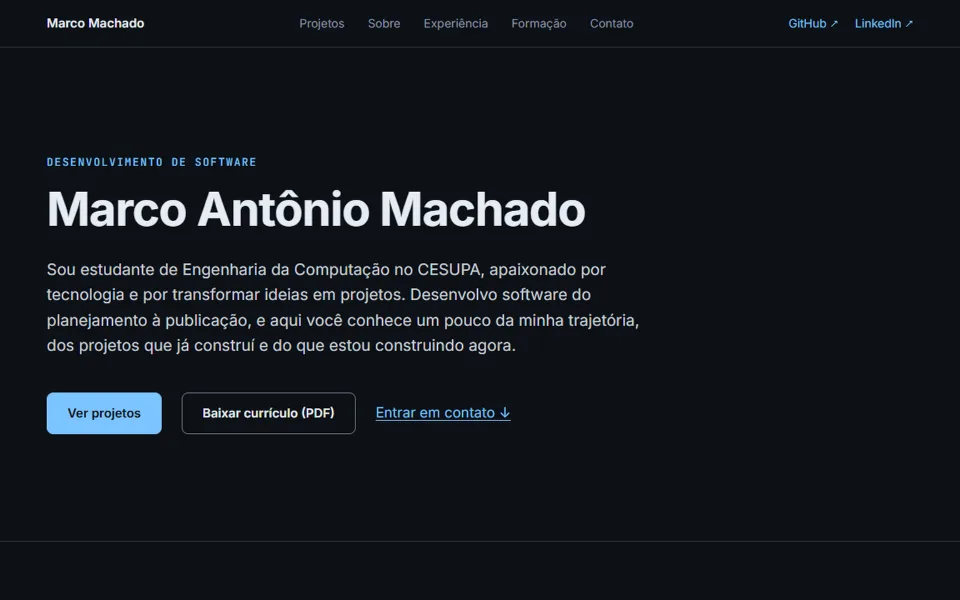
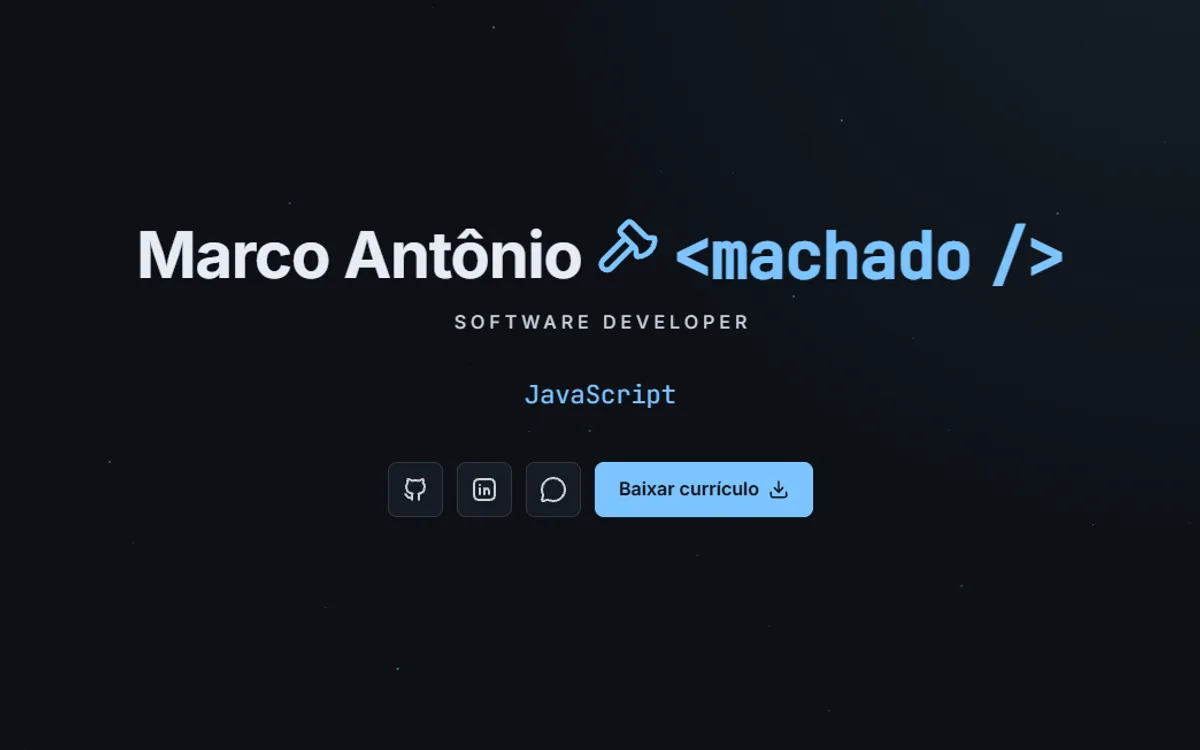
Atualiza as imagens dos cartões e padroniza A Teko Lixeira

diff --git a/projetos/teko-lixeira.html b/projetos/teko-lixeira.html
@@ -53,7 +53,7 @@
 
             <!-- IMAGEM -->
             <img class="projeto-imagem pagina-imagem" src="../img/projetos/teko/teko-card.webp"
-                alt="Dashboard do Teko Lixeira mostrando o peso de lixo coletado no mês e o status da lixeira" width="960"
+                alt="Dashboard da Teko Lixeira mostrando o peso de lixo coletado no mês e o status da lixeira" width="960"
                 height="600">
 
             <!-- O AMAZON HACKING -->
@@ -74,7 +74,7 @@
             <section class="pagina-bloco">
                 <h2>Contexto</h2>
                 <div class="pagina-bloco-texto">
-                    <p>O Teko Lixeira nasceu na edição de 2025 do Amazon Hacking, que teve como tema a Amazônia a caminho da
+                    <p>A Teko Lixeira nasceu na edição de 2025 do Amazon Hacking, que teve como tema a Amazônia a caminho da
                         COP 30 e desafios urbanos de Belém, como a gestão de resíduos. A edição contou com o apoio de
                         empresas parceiras. A ideia foi criada em conjunto pela equipe, formada por alunos de Ciência da
                         Computação e de Engenharia da Computação. O protótipo foi exposto em um estande na COP 30, em Belém,
@@ -101,7 +101,7 @@
             <section class="pagina-bloco">
                 <h2>Solução</h2>
                 <div class="pagina-bloco-texto">
-                    <p>O Teko Lixeira é uma lixeira inteligente que faz a pesagem do lixo, informa quando está totalmente
+                    <p>A Teko Lixeira é uma lixeira inteligente que faz a pesagem do lixo, informa quando está totalmente
                         cheia e envia os dados por Wi-Fi para a nuvem. Um painel web mostra tudo em tempo real: o peso ao
                         longo do dia, o total do mês e o aviso de lixeira cheia. Com essas informações, a equipe de coleta
                         sabe qual lixeira precisa ser esvaziada hoje e qual ainda pode esperar. O caminhão pode ir direto aos
@@ -128,7 +128,7 @@
                 <div class="pagina-galeria pagina-galeria-cartoes">
                     <figure>
                         <img src="../img/projetos/teko/teko-diagrama-sistema.png"
-                            alt="Diagrama do Teko Lixeira: sensor de nível na tampa, sensor de abertura e movimento na lateral e sensor de carga na base, ligados ao ESP32, que envia os dados por Wi-Fi para a nuvem e para o sistema de monitoramento"
+                            alt="Diagrama da Teko Lixeira: sensor de nível na tampa, sensor de abertura e movimento na lateral e sensor de carga na base, ligados ao ESP32, que envia os dados por Wi-Fi para a nuvem e para o sistema de monitoramento"
                             width="960" height="600" loading="lazy">
                         <figcaption><strong>Como o sistema funciona</strong> Mostra o caminho do dado: os sensores na lixeira, o
                             ESP32, o Wi-Fi, a nuvem e o sistema de monitoramento.</figcaption>

diff --git a/index.html b/index.html
@@ -55,7 +55,7 @@
 
                 <p class="inicio-cargo" lang="en">Software Developer</p>
 
-                <!-- Java entra aqui em 15/12/2026, junto com o array do script.js -->
+                
                 <p class="inicio-tecnologias">
                     <span class="inicio-palavra-caixa"><span class="inicio-palavra" aria-hidden="true">HTML · CSS · JavaScript · Git · GitHub</span></span>
                     <span class="visualmente-oculto">Tecnologias: HTML, CSS, JavaScript, Git e GitHub</span>
@@ -138,7 +138,7 @@
                         <div class="projeto-midia">
                             <a class="projeto-imagem-link" href="projetos/teko-lixeira.html" tabindex="-1" aria-hidden="true"><img
                                 class="projeto-imagem" src="img/projetos/teko/teko-card.webp"
-                                alt="Dashboard do Teko Lixeira mostrando o peso de lixo coletado no mês e o status da lixeira"
+                                alt="Dashboard da Teko Lixeira mostrando o peso de lixo coletado no mês e o status da lixeira"
                                 width="960" height="600" loading="lazy" decoding="async"></a>
                             <div class="projeto-acoes">
                                 <a class="projeto-acao" href="projetos/teko-lixeira.html" aria-label="Ver detalhes do projeto Teko Lixeira">

diff --git a/js/script.js b/js/script.js
@@ -12,9 +12,9 @@ const projetos = [
         tecnologias: ['C++', 'JavaScript', 'HTML', 'CSS', 'React', 'Firebase', 'ESP32'],
         imagemDesktop: 'img/projetos/teko/teko-card.webp',
         imagemMobile: 'img/projetos/teko/teko-card.webp',
-        alt: 'Dashboard do Teko Lixeira mostrando o peso de lixo coletado no mês e o status da lixeira',
+        alt: 'Dashboard da Teko Lixeira mostrando o peso de lixo coletado no mês e o status da lixeira',
         codigo: 'https://github.com/Marcoliveira12/teko-lixeira',
-        //o Teko não tem site
+        //a Teko Lixeira não tem site
         site: '',
         pagina: 'projetos/teko-lixeira.html'
     },
@@ -48,7 +48,6 @@ const projetos = [
 ];
 
 //para acrescentar uma tecnologia: copie um objeto { nome, arquivo } inteiro, cole no fim dos itens do grupo certo e troque os dados
-//Java e SQL entram no Backend a partir de 15/12/2026, é só acrescentar um objeto em itens
 const gruposTecnologias = [
     {
         titulo: 'Frontend',
@@ -78,7 +77,6 @@ const gruposTecnologias = [
 ];
 
 //palavras que se revezam no topo
-//em 15/12/2026 o 'Java' entra no fim da lista (e no comentário do index.html)
 const tecnologiasTopo = ['HTML', 'CSS', 'JavaScript', 'Git', 'GitHub'];
 
 

diff --git a/css/style.css b/css/style.css
@@ -2524,7 +2524,7 @@ A borda é cinza para não parecer com as pílulas azuis das tecnologias*/
     margin-top: 8px;
 }
 
-/*cartões de imagem do Teko: todas as molduras do mesmo tamanho (16 por 10), com borda azul*/
+/*cartões de imagem da Teko Lixeira: todas as molduras do mesmo tamanho (16 por 10), com borda azul*/
 .pagina-galeria-cartoes img {
     aspect-ratio: 16 / 10;
     object-fit: cover;
